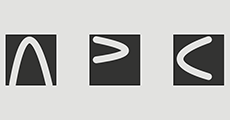
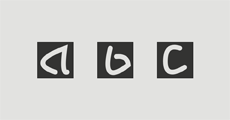
Added 4 new parameters and line.

Changed region(s): [[0.0, 0.275, 0.3348, 0.725], [0.6696, 0.275, 0.9739, 0.725], [0.3652, 0.275, 0.6391, 0.725]]

diff --git a/sketch.js b/sketch.js
@@ -2,44 +2,64 @@ const canvasWidth = 960;
 const canvasHeight = 500;
 
 /* 
- * my six variable per letter are:
+ * my ten variable per letter are:
  *
-   vertX: X position of initial start of the line(anchor point)
-   vertY: Y position of initial start of the line(anchor point)
-   ctrlPx: X position of the control point for vertX
-   ctrlPy: Y position of the control point for vertY
-   vertX2: X position of the end point of the line(anchor point)
-   vertY2: Y position of the end point of the line(anchor point)
+   vertX: X position of initial start of the first curve(anchor point)
+   vertY: Y position of initial start of the first curve(anchor point)
+
+   ctrlPx: X position of the control point for first curve
+   ctrlPy: Y position of the control point for first curve
+   vertX2: X position of the end point of the first curve(anchor point) - Start of second curve
+   vertY2: Y position of the end point of the first curve(anchor point) - Start of second curve
+
+   ctrlPx2: X position of the control point for the second curve
+   ctrlPy2: Y position of the control point for the second curve
+   vertX3: X position of the end point of the second curve(anchor point)
+   vertY3: Y position of the end point of the second curve(anchor point)
  *
  */
 
 const letterA = {
-  "vertX": 425,
-  "vertY": 310,
-  "ctrlPx": 470,
-  "ctrlPy": 80,
-  "vertX2": 535,
-  "vertY2": 310
+  "vertX": 480,
+  "vertY": 300,
+  "ctrlPx": 360,
+  "ctrlPy": 260,
+  "vertX2": 520,
+  "vertY2": 200,
+
+  "ctrlPx2": 505,
+  "ctrlPy2": 310,
+  "vertX3": 530,
+  "vertY3": 300
   
 }
 
 const letterB = {
-  "vertX": 425,
-  "vertY": 190,
-  "ctrlPx": 600,
-  "ctrlPy": 225,
-  "vertX2": 425,
-  "vertY2": 250
+  "vertX": 485,
+  "vertY": 235,
+  "ctrlPx": 530,
+  "ctrlPy": 230,
+  "vertX2": 535,
+  "vertY2": 270,
+
+  "ctrlPx2": 420,
+  "ctrlPy2": 360,
+  "vertX3": 460,
+  "vertY3": 200
 }
 
 const letterC = {
-  "vertX": 510,
-  "vertY": 190,
-  "ctrlPx": 340,
-  "ctrlPy": 250,
-  "vertX2": 510,
-  "vertY2": 300
+  "vertX": 500,
+  "vertY": 200,
+  "ctrlPx": 440,
+  "ctrlPy": 180,
+  "vertX2": 440,
+  "vertY2": 255,
 
+  "ctrlPx2": 440,
+  "ctrlPy2": 330,
+  "vertX3": 520,
+  "vertY3": 280
 }
 
 const colorFront  = "#333332";
@@ -64,12 +84,25 @@ function setup () {
 
 function drawLetter(posx, posy, scale, letterData) {
   
+  //anchor point 1 - inital placement of first curve
   let vert1x = posx + letterData["vertX"];
   let vert1y = posy + letterData["vertY"];
+
+  //control point/handle for first curve
   let ctrl1Px = posx + letterData["ctrlPx"];
   let ctrl1Py = posy + letterData["ctrlPy"];
+
+  //anchor point 2 - end of first curve
   let vert2x = posx + letterData["vertX2"];
   let vert2y = posy + letterData["vertY2"];
+
+  //control point/handle for second curve
+  let ctrl2Px = posx + letterData["ctrlPx2"];
+  let ctrl2Py = posy + letterData["ctrlPy2"];
+
+  //anchor point 3 - end of second curve
+  let vert3x = posx + letterData["vertX3"];
+  let vert3y = posy + letterData["vertY3"];
 
   //stroke(255,0,255); //Pink for testing
   stroke(colorBack)
@@ -78,6 +111,7 @@ function drawLetter(posx, posy, scale, letterData) {
   beginShape();
   vertex(vert1x,vert1y)
   quadraticVertex(ctrl1Px,ctrl1Py,vert2x,vert2y)
+  quadraticVertex(ctrl2Px, ctrl2Py, vert3x,vert3y)
   endShape();
 }
 

diff --git a/README.md b/README.md
@@ -1,15 +1,18 @@
 ## PS2 MDDN 242 2018
  
- Currently my six variable per letter are:
+ Currently my 10 variable per letter are:
   - vertX: X position of initial start of the line(anchor point)
   - vertY: Y position of initial start of the line(anchor point)
   - ctrlPx: X position of the control point for vertX
   - ctrlPy: Y position of the control point for vertY
   - vertX2: X position of the end point of the line(anchor point)
   - vertY2: Y position of the end point of the line(anchor point)
+Added:
+  - ctrlPx2: X position of the control point for the second curve
+  - ctrlPy2: Y position of the control point for the second curve
+  - vertX3: X position of the end point of the second curve(anchor point)
+  - vertY3: Y position of the end point of the second curve(anchor point)
 
-  In my experimental commit and previous commit I was using a pink stroke() and points of the rectangle as reference for how to draw my line. To speed up the process I have started using Adobe Illustrator as reference. Utilizing the info panel I screenshot my canvas and import the screenshot into a 960x500 artboard on Illustrator. I then use the pen tool to create a bezier curve and control the anchor points to create a certain type of curve. Using Illustrators Info window I am able to pin point the location of the vertex and handles and I round the number to end in a 5 or 0 because I want my font to be restrained since the project is about parameters.
+  In my last commit I stated that using just one curve to create a set of letters is too challenging for the viewer to decipher what letter it is. In this iteration i've added 4 new parameters for an extra quadratic curve. Because i'm using Adobe Illustrator and the pen tool to create my font letters I feel like my font is a recreation of what the pen tool does in the p5.js framework.
 
-  Utilizing just one quadratic curve to create a set of letters is possibly too challenging to be translatable for the viewer so I believe in my next iteration I will add a second quadratic curve but still keep it restrained as possible. Possibly not using an extra vertex as that would use up my 12 parameters.
-
-  In this commit I've created the ABC. But it feels like it's just an A, rotated V and C. My original idea was to have a 'literal' font so I want to try create a convincing font just from the quadratic curves. The current iteration of my font has similiarities to the Comic Sans.
+  I find the resemblance/recreation of the Illustrator's pen tool fitting because it's a program used for Graphic Design/Font creation and one of the inspirations for my project is the graphic design principle of Gestalt. Gestalt is a psychology term which refers to visual perception. I don't feel as my font has a strong resemblance to any of the Gestalt principles currently as my font has changed since I first sourced it as inspiration.
